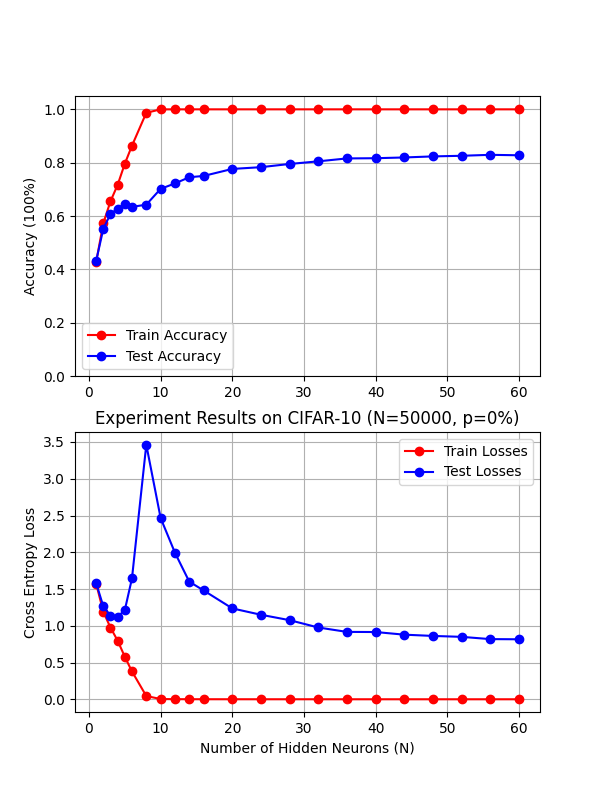
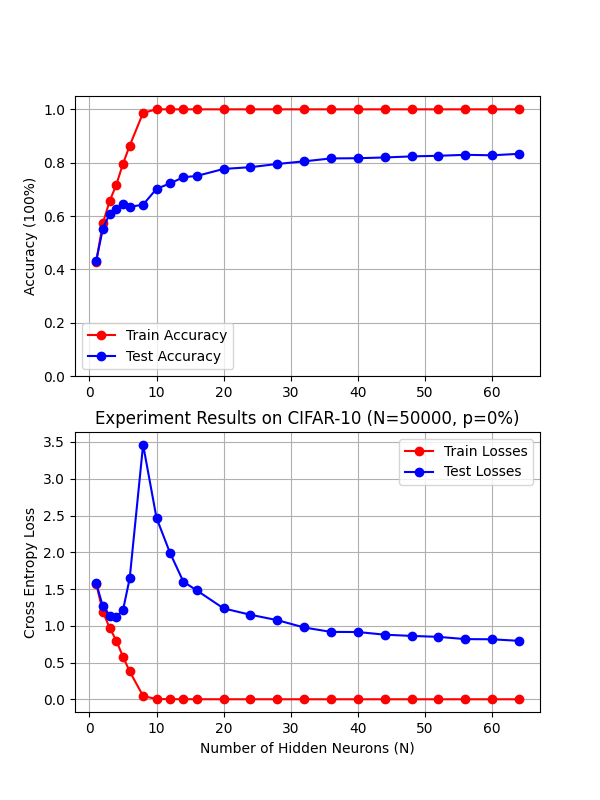
Add manual seed configuration

diff --git a/dd_exp.py b/dd_exp.py
@@ -1,7 +1,6 @@
 import torch
 from torch.utils.data import DataLoader
 from prefetch_generator import BackgroundGenerator
-# from sklearn.manifold import TSNE
 import csv
 import os
 
@@ -25,7 +24,7 @@ TEST_GROUP = 0
 TEST_NUMBERS = [0]
 label_noise_ratio = 0.0
 
-
+GRADIDENT_STEP = 100000
 BATCH_SIZE = 128
 learning_rate = 0.1
 save_model = True
@@ -52,6 +51,13 @@ def get_train_and_test_dataloader(dataset_path):
 
     return train_dataloader, test_dataloader
 
+def setup_seed(seed):
+    torch.manual_seed(seed)
+    torch.cuda.manual_seed_all(seed)
+    np.random.seed(seed)
+    random.seed(seed)
+    torch.backends.cudnn.deterministic = True
+
 
 # ------------------------------------------------------------------------------------------
 
@@ -75,68 +81,6 @@ def get_model(hidden_unit, device):
 # ------------------------------------------------------------------------------------------
 
 
-
-# Model testing
-def test(model, device, test_dataloader):
-    model.eval()
-    cumulative_loss, correct, total = 0.0, 0, 0
-
-    with torch.no_grad():
-        for idx, (inputs, labels) in enumerate(test_dataloader):
-            labels = torch.nn.functional.one_hot(labels, num_classes=10).float()
-            inputs = inputs.to(device)
-            labels = labels.to(device)
-
-            outputs = model(inputs)
-            loss = criterion(outputs, labels)
-
-            cumulative_loss += loss.item()
-            _, predicted = outputs.max(1)
-            total += labels.size(0)
-            correct += predicted.eq(labels.argmax(1)).sum().item()
-
-    test_loss = cumulative_loss / len(test_dataloader)
-    test_acc = correct/total
-
-    return test_loss, test_acc
-
-
-# ------------------------------------------------------------------------------------------
-
-
-'''
-def model_t_sne(model, trainloader, hidden_unit):
-    model.eval()
-
-    hidden_features, predicts = [], []
-
-    with torch.no_grad():
-        for idx, (inputs, labels) in enumerate(trainloader):
-            inputs = inputs.to(device)
-
-            hidden_feature = model(inputs, path='half1')
-            outputs = model(hidden_feature, path='half2')
-
-            for hf in hidden_feature:
-                hidden_features.append(hf.cpu().detach().numpy())
-
-            for output in outputs:
-                predict = output.cpu().detach().numpy().argmax()
-                predicts.append(predict)
-
-    hidden_features = np.array(hidden_features)
-    tsne = TSNE(n_components=2, random_state=42)
-    X_tsne = tsne.fit_transform(hidden_features)
-
-    plt.figure(figsize=(30, 20))
-    plt.scatter(X_tsne[:, 0], X_tsne[:, 1], c=predicts, cmap=plt.cm.get_cmap("jet", 10))
-    plt.colorbar(ticks=range(10))
-    plt.title('t-SNE Hidden Features Visualization (N = %d)' % hidden_unit)
-    plt.xlabel('t-SNE Dimension 1')
-    plt.ylabel('t-SNE Dimension 2')
-    plt.savefig(os.path.join(tsne_path, 't-SNE_Hidden_Features_%d.jpg' % hidden_unit))
-'''
-
 def model_save(model, gradient_step, test_accuracy, checkpoint_path):
     state = {
         'net': model.state_dict(),
@@ -146,7 +90,6 @@ def model_save(model, gradient_step, test_accuracy, checkpoint_path):
 
     torch.save(state, os.path.join(checkpoint_path, 'Model_State_Dict_%d.pth' % hidden_unit))
     print("Torch saved successfully!\n")
-
 
 def status_save(n_hidden_units, gradient_step, parameters, train_loss, train_acc, test_loss, test_acc, lr, time,
                 dictionary_path):
@@ -158,7 +101,6 @@ def status_save(n_hidden_units, gradient_step, parameters, train_loss, train_acc
                   'Train Loss': train_loss, 'Train Accuracy': train_acc, 'Test Loss': test_loss, 'Test Accuracy': test_acc,
                   'Learning Rate': lr, 'Time Cost': time}
 
-
     with open(dictionary_path, "a", newline="") as fp:
         # Create a writer object
         writer = csv.DictWriter(fp, fieldnames=dictionary.keys())
@@ -168,11 +110,12 @@ def status_save(n_hidden_units, gradient_step, parameters, train_loss, train_acc
         print('Done writing to a csv file\n')
 
 
+# ------------------------------------------------------------------------------------------
+
+
 # Train and Evalute the model
 def train_and_evaluate_model(model, device, train_dataloader, test_dataloader, optimizer, criterion, dictionary_path, checkpoint_path):
     start_time = datetime.now()
-
-    train_loss, train_acc, test_loss, test_acc, epoch = 0.0, 0.0, 0.0, 0.0, 0
 
     parameters = sum(p.numel() for p in model.parameters())
     n_hidden_units = model.n_hidden_units
@@ -180,7 +123,7 @@ def train_and_evaluate_model(model, device, train_dataloader, test_dataloader, o
     gradient_step, gs_count = 0, 0
 
     while gradient_step <= 500000:
-
+        # Model Training
         model.train()
         cumulative_loss, correct, total = 0.0, 0, 0
 
@@ -211,26 +154,43 @@ def train_and_evaluate_model(model, device, train_dataloader, test_dataloader, o
         print("Gradient Step : %d(K) ; Train Loss : %f ; Train Acc : %.3f ; Learning Rate : %f" %
               (gradient_step // 1000, train_loss, train_acc, lr))
 
+        # Test Model after every 100K Gradient Steps
         if gradient_step // 100000 > gs_count:
-            gs_count = gradient_step // 100000
+            # Test Model
+            model.eval()
+            cumulative_loss, correct, total = 0.0, 0, 0
 
-            test_loss, test_acc = test(model, device, test_dataloader)
+            with torch.no_grad():
+                for idx, (inputs, labels) in enumerate(test_dataloader):
+                    labels = torch.nn.functional.one_hot(labels, num_classes=10).float()
+                    inputs = inputs.to(device)
+                    labels = labels.to(device)
+
+                    outputs = model(inputs)
+                    loss = criterion(outputs, labels)
+
+                    cumulative_loss += loss.item()
+                    _, predicted = outputs.max(1)
+                    total += labels.size(0)
+                    correct += predicted.eq(labels.argmax(1)).sum().item()
+
+            test_loss = cumulative_loss / len(test_dataloader)
+            test_acc = correct / total
 
             curr_time = datetime.now()
             time = (curr_time - start_time).seconds / 60
+            gs_count = gradient_step // 100000
 
             status_save(n_hidden_units, gradient_step, parameters, train_loss, train_acc, test_loss, test_acc, lr, time,
                             dictionary_path=dictionary_path)
-
-    '''
-    if tSNE_Visualization:
-        model_t_sne(model, trainloader, hidden_unit)
-    '''
 
     if save_model:
         model_save(model, test_acc, gradient_step, checkpoint_path=checkpoint_path)
 
     return
+
+
+# ------------------------------------------------------------------------------------------
 
 
 if __name__ == '__main__':
@@ -240,24 +200,24 @@ if __name__ == '__main__':
     print('Using device : ', torch.cuda.get_device_name(0))
     print(torch.cuda.get_device_capability(0))
 
+    setup_seed(20)
+
     # Initialization of hidden units
     if DATASET == 'MNIST':
         hidden_units = [1, 2, 3, 4, 5, 6, 7, 8, 9, 10, 12, 14, 16, 18, 20, 22, 25, 30, 35, 40, 45, 50, 55, 60, 70, 80, 90, 100,
                         120, 150, 200, 400, 600, 800, 1000]
     elif DATASET == 'CIFAR-10':
-        #hidden_units = [1, 2, 3, 4, 5, 6, 8, 10, 12, 14, 16, 20, 24, 28, 32, 36, 40, 44, 48, 52, 56, 60, 64]
-        hidden_units = [28, 32, 36, 40, 44, 48, 52, 56, 60, 64]
+        hidden_units = [1, 2, 3, 4, 5, 6, 8, 10, 12, 14, 16, 20, 24, 28, 32, 36, 40, 44, 48, 52, 56, 60, 64]
 
     # Main Program
     for test_number in TEST_NUMBERS:
         # Define the roots and paths
-        directory = f"assets/{DATASET}/N=%d-3d/TEST-%d/GS=500K-noise-%d-model-%d" \
-                    % (N_SAMPLES, TEST_GROUP, label_noise_ratio * 100, test_number)
+        directory = f"assets/{DATASET}/N=%d-3d/TEST-%d/GS=%dK-noise-%d-model-%d" \
+                    % (N_SAMPLES, TEST_GROUP, GRADIDENT_STEP // 1000, label_noise_ratio * 100, test_number)
 
-        dataset_path = os.path.join(directory, 'dataset')
         dictionary_path = os.path.join(directory, "dictionary.csv")
+        dataset_path = os.path.join(directory, 'dataset')
         checkpoint_path = os.path.join(directory, "ckpt")
-        tsne_path = os.path.join(directory, "t-SNE")
 
         if not os.path.isdir(directory):
             os.mkdir(directory)
@@ -265,10 +225,6 @@ if __name__ == '__main__':
             os.mkdir(dataset_path)
         if save_model and not os.path.isdir(checkpoint_path):
             os.mkdir(checkpoint_path)
-        '''
-        if tSNE_Visualization and not os.path.isdir(tsne_path):
-            os.mkdir(tsne_path)
-        '''
 
         # Initialize Status Dictionary
         dictionary = {'Hidden Neurons': 0, 'Gradient Steps': 0, 'Parameters': 0, 'Train Loss': 0,

diff --git a/datasets.py b/datasets.py
@@ -66,7 +66,11 @@ def get_test_dataset(DATASET):
 
 
 def save_and_create_training_set(DATASET, sample_size, label_noise_ratio, dataset_path):
-    train_dataset = torch.utils.data.Subset(get_train_dataset(DATASET), indices=np.arange(sample_size))
+    train_dataset = get_train_dataset(DATASET)
+
+    if sample_size < 50000:
+        train_dataset = torch.utils.data.Subset(train_dataset, indices=np.arange(sample_size))
+
     torch.save(list(train_dataset), os.path.join(dataset_path, 'subset-clean.pth'))
 
     if label_noise_ratio == 0:
